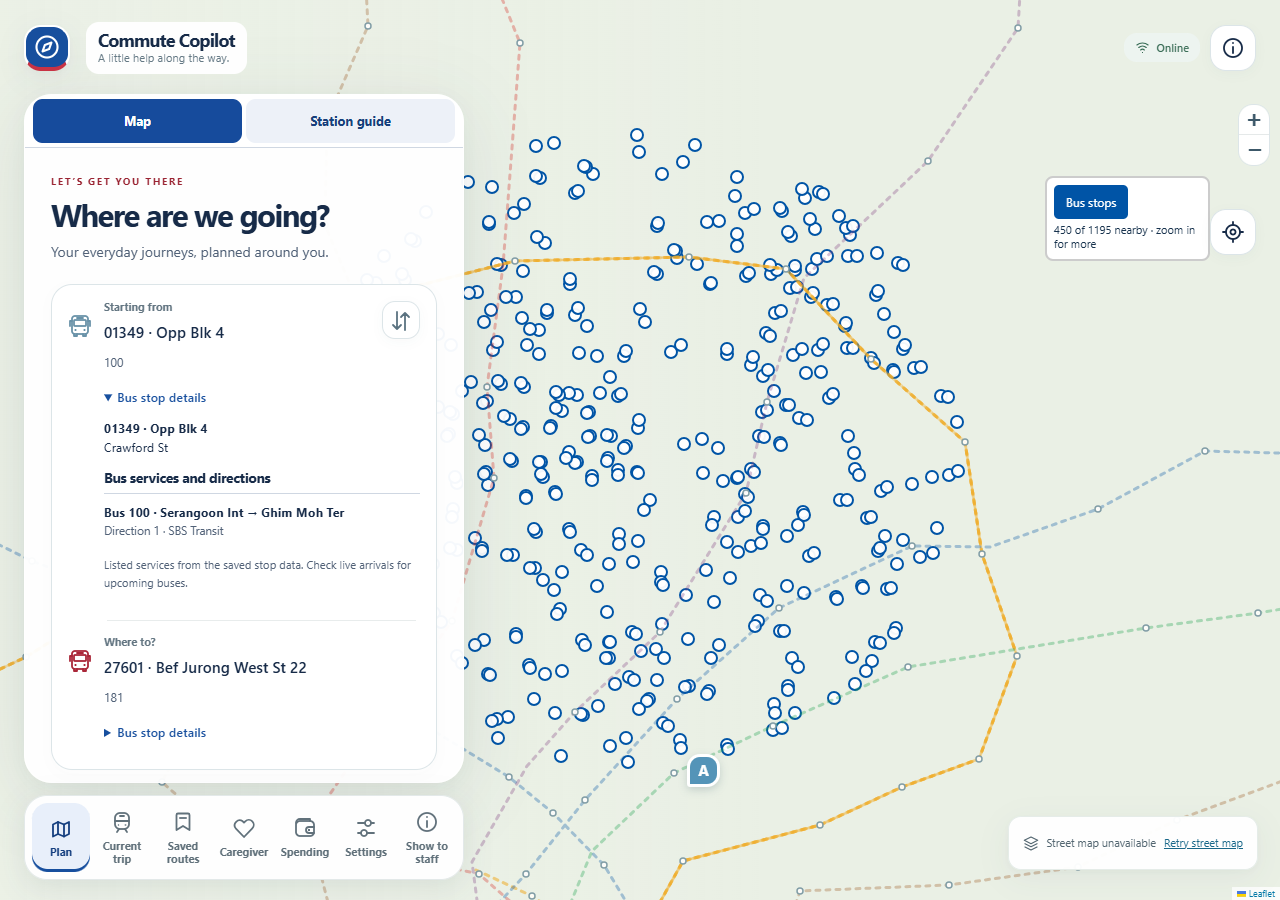
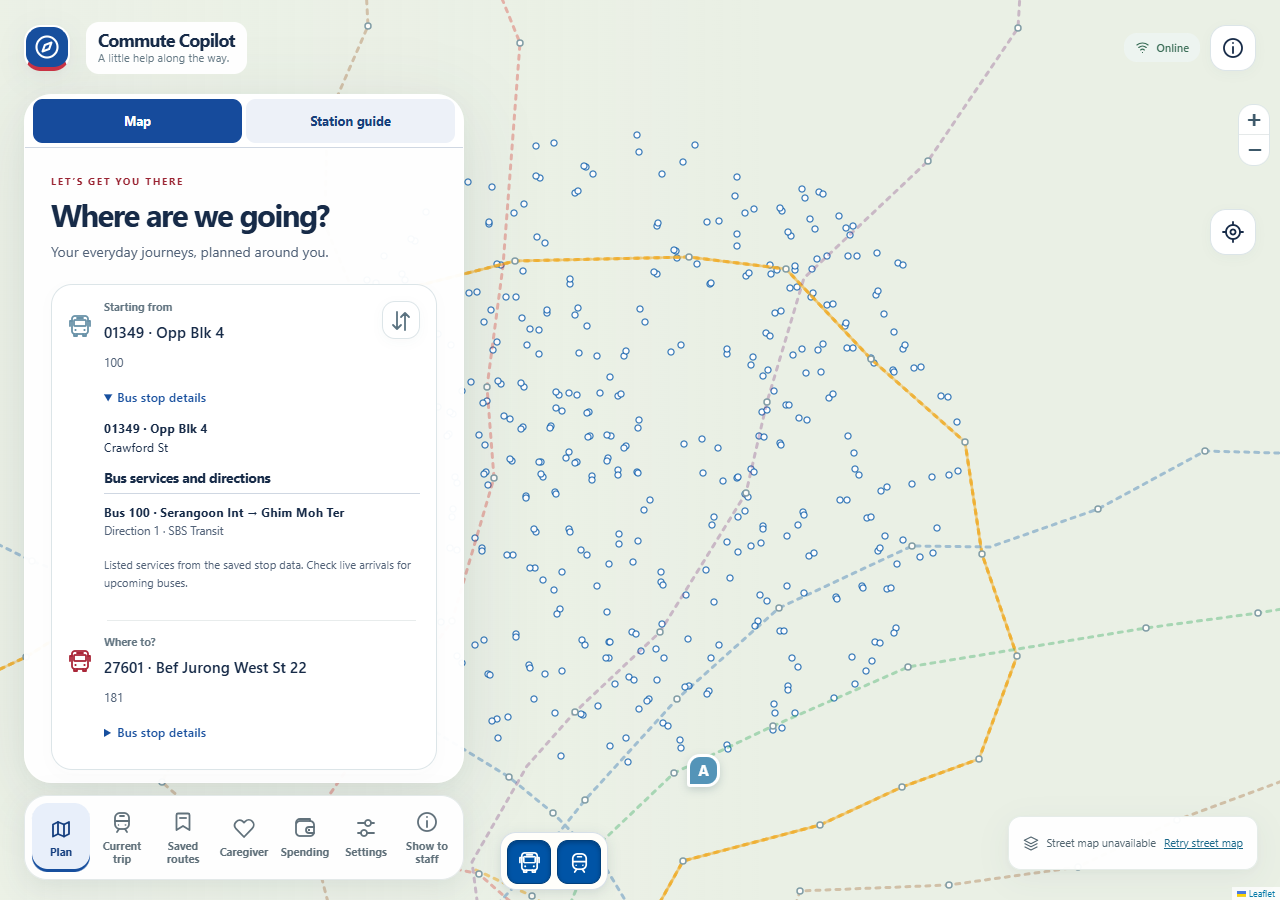
Group bus and train map toggles with compact stop markers

diff --git a/src/commute-ui.js b/src/commute-ui.js
@@ -24,6 +24,7 @@ import {mountStaffCard} from './staff-card.js';
 import {mountMapStationPages,indoorNoticeHTML} from './station-guide.js';
 import {mountJourneySheet} from './journey-sheet.js';
 import {mountBusStopMap} from './bus-stop-map.js';
+import {mountMapLayerControls} from './map-layer-controls.js';
 
 const esc=v=>String(v??'').replace(/[&<>"']/g,c=>({'&':'&amp;','<':'&lt;','>':'&gt;','"':'&quot;',"'":'&#39;'}[c]));
 const $=id=>document.getElementById(id);
@@ -162,7 +163,22 @@ function drawMap(){if(!mapLayers)return;mapLayers.clearLayers();const active=com
   $('retry-street-map')?.addEventListener('click',()=>streetMap?.retry());if(points.length&&drawMap.last!==r?.id){drawMap.last=r?.id;fitMap();}}
 function fitMap(){if(drawMap.points?.length){const desktop=innerWidth>=960;map.fitBounds(drawMap.points,{paddingTopLeft:desktop?[500,95]:[32,90],paddingBottomRight:desktop?[60,65]:[32,50],maxZoom:14,animate:!reducedMotion()});}else map?.setView([1.335,103.86],12,{animate:!reducedMotion()});}
 $('recenter-map').onclick=fitMap;
-async function initMap(){try{map=L.map('commute-map',{zoomControl:false,scrollWheelZoom:false}).setView([1.335,103.86],12);streetMap=addStreetMap(map,{onStatus:status=>{mapFailed=['unavailable','offline'].includes(status.status);mapStatus=mapFailed?'Street map unavailable':status.status==='loading'?'Loading street map':'';drawMap();}});L.control.zoom({position:'topright'}).addTo(map);drawNetworkOverview(map,rail);mountBusStopMap(map,bus.stops,{onChoose:(role,code)=>{catalog=currentCatalog();const point=catalog.find(p=>p.id===`bus:${code}`);if(point){showView('plan');choose(role,point);}}});mapLayers=L.layerGroup().addTo(map);drawMap();}catch{$('map-caption').hidden=false;$('map-caption').textContent='Map unavailable. Text routes and saved guidance remain usable.';}}
+async function initMap(){try{
+  map=L.map('commute-map',{zoomControl:false,scrollWheelZoom:false}).setView([1.335,103.86],12);
+  streetMap=addStreetMap(map,{onStatus:status=>{mapFailed=['unavailable','offline'].includes(status.status);mapStatus=mapFailed?'Street map unavailable':status.status==='loading'?'Loading street map':'';drawMap();}});
+  L.control.zoom({position:'topright'}).addTo(map);
+  const trainLayer=drawNetworkOverview(map,rail);
+  let busLayer;
+  const layerControls=mountMapLayerControls(map,{
+    onBusToggle:visible=>busLayer.setVisible(visible),
+    onTrainToggle:visible=>visible?trainLayer.addTo(map):map.removeLayer(trainLayer)
+  });
+  busLayer=mountBusStopMap(map,bus.stops,{
+    onStatus:layerControls.setBusStatus,
+    onChoose:(role,code)=>{catalog=currentCatalog();const point=catalog.find(p=>p.id===`bus:${code}`);if(point){showView('plan');choose(role,point);}}
+  });
+  mapLayers=L.layerGroup().addTo(map);drawMap();
+}catch{$('map-caption').hidden=false;$('map-caption').textContent='Map unavailable. Text routes and saved guidance remain usable.';}}
 function connection(){$('network-status').innerHTML=`${icon(navigator.onLine?'online':'offline',16)} ${navigator.onLine?'Online':'Offline'}`;updateCurrent(companion?.getActive());}window.addEventListener('online',connection);window.addEventListener('offline',connection);
 async function boot(){try{[rail,bus,walking,build]=await Promise.all(['rail-network','bus-network','walking-links','application-build'].map(async n=>{const r=await fetch(`/data/${n}.json`);if(!r.ok)throw Error('Routing data could not be loaded. Reconnect to prepare this device.');return r.json();}));router=createMultimodalRouter(rail,bus,walking);plannerClient=createPlannerClient([rail,bus,walking]);for(const s of router.network.stations)names.set(s.id,s.name);for(const s of router.network.stops)names.set(s.id,`${s.name} (${s.id})`);catalog=currentCatalog();$('coverage-copy').innerHTML=`<p>Rail timetable: ${rail.coverage.startDate}–${rail.coverage.endDate}. All times are in Asia/Singapore. Dates outside coverage stay unavailable.</p><p>All ${bus.stops.length.toLocaleString('en-SG')} source bus stops are searchable. The directory includes ${bus.patterns.length} route directions across ${bus.availability.registryServiceNumberCount} service numbers. Zoom in on the map to select a bus stop.</p><p>${bus.availability.routablePatternCount} bus patterns across ${bus.availability.routableServiceNumberCount} services have at least one supported service day, ${bus.coverage.validFrom}–${bus.coverage.validThrough}. Per-stop weekday, Saturday and Sunday service windows apply where supported. Holiday routing needs a separately verified operator calendar; services without usable frequency data remain listed without journey estimates. Bus timings are bounded estimates, not live vehicle arrivals.</p><aside class="wip-banner"><h3>Work in progress — station connections</h3><p>Same-terminal bus changes use an estimated five-minute walking allowance; confirm the boarding bay. Bus/rail walking links require reviewed exterior connections. Indoor accessibility, door-to-door paths, crowding, shelter and real toilet paths remain unverified.</p></aside>`;
   initMap();companion=mountCompanion({host:$('companion-host'),showHeader:false,showDock:false,sectionHosts:{review:$('review-companion'),saved:$('saved-companion'),sharing:$('caregiver-companion'),spending:$('spending-companion')},getMap:()=>map,getSelected:()=>selected&&input?(selected.plan?{plan:selected.plan}:{route:selected,input,routingContext:acceptJourney(selected,input,build.applicationSha256)}):null,getPlaces:()=>catalog.filter(p=>p.kind!=='saved'),name,getFareOptions:()=>({busNetwork:bus}),onSelectPlan:p=>{preferences=preferencesStore.update(p.preferences);renderPreferences();catalog=currentCatalog();for(const point of [p.origin,p.destination])if(!catalog.some(existing=>existing.id===point.id)&&Number.isFinite(point.lat)&&Number.isFinite(point.lng)){externalPoints=[{...point,routingId:null,kind:'address',detail:'Saved public endpoint · online routing required'},...externalPoints.filter(existing=>existing.id!==point.id)].slice(0,12);}catalog=currentCatalog();for(const role of ['origin','destination']){resolved[role]=p[role].id;$(role).value=p[role].label;}restoreTiming(p);invalidate();showView('plan');},onEndpoint:(role,p)=>{catalog=currentCatalog();choose(role,p);showView('plan');}});

diff --git a/src/bus-stop-map.js b/src/bus-stop-map.js
@@ -6,17 +6,9 @@ export function visibleBusStops(stops,bounds,center,limit=450) {
   return {stops:candidates.slice(0,limit),total:candidates.length};
 }
 
-export function mountBusStopMap(map,stops,{onChoose,leaflet=globalThis.L}={}) {
-  const layer=leaflet.layerGroup().addTo(map),renderer=leaflet.canvas({padding:.2});
+export function mountBusStopMap(map,stops,{onChoose,onStatus=()=>{},leaflet=globalThis.L}={}) {
+  const layer=leaflet.layerGroup().addTo(map),renderer=leaflet.canvas({padding:.2,tolerance:4});
   let enabled=true,disposed=false;
-  const control=leaflet.control({position:'topright'});
-  const container=document.createElement('div');container.className='leaflet-bar bus-stop-map-control';
-  container.style.cssText='background:white;padding:7px;border-radius:8px;max-width:165px;margin-right:70px;color:#17324d';
-  const toggle=document.createElement('button');toggle.type='button';toggle.textContent='Bus stops';toggle.setAttribute('aria-pressed','true');
-  toggle.style.cssText='background:#0054a6;color:white;border:0;border-radius:5px;padding:8px 12px;font:inherit;cursor:pointer';
-  const status=document.createElement('div');status.setAttribute('role','status');status.style.cssText='font-size:11px;margin-top:4px;line-height:1.3';
-  container.append(toggle,status);leaflet.DomEvent.disableClickPropagation(container);leaflet.DomEvent.disableScrollPropagation(container);
-  control.onAdd=()=>container;control.addTo(map);
   function popup(stop) {
     const box=document.createElement('div'),title=document.createElement('strong'),road=document.createElement('p');
     title.textContent=`${stop.id} · ${stop.name}`;road.textContent=stop.roadName??'';box.append(title,road);
@@ -28,17 +20,19 @@ export function mountBusStopMap(map,stops,{onChoose,leaflet=globalThis.L}={}) {
   }
   function update() {
     if(disposed)return;layer.clearLayers();
-    if(!enabled){status.textContent='Hidden';return;}
-    if(map.getZoom()<14){status.textContent='Zoom in to see bus stops';return;}
+    if(!enabled){onStatus('Bus stops hidden');return;}
+    if(map.getZoom()<14){onStatus('Zoom in to see bus stops');return;}
     const b=map.getBounds(),visible=visibleBusStops(stops,{south:b.getSouth(),north:b.getNorth(),west:b.getWest(),east:b.getEast()},map.getCenter());
     for(const stop of visible.stops){
       const label=document.createElement('span');label.textContent=`${stop.id} · ${stop.name}`;
-      leaflet.circleMarker([stop.lat,stop.lon],{renderer,radius:6,color:'#0054a6',weight:2,fillColor:'#fff',fillOpacity:.95})
+      leaflet.circleMarker([stop.lat,stop.lon],{renderer,radius:3,color:'#0054a6',weight:1,fillColor:'#fff',fillOpacity:.95})
         .bindTooltip(label,{direction:'top'}).bindPopup(()=>popup(stop)).addTo(layer);
     }
-    status.textContent=visible.total>visible.stops.length?`${visible.stops.length} of ${visible.total} nearby · zoom in for more`:`${visible.total} stops in this area`;
+    onStatus(visible.total>visible.stops.length?`${visible.stops.length} of ${visible.total} nearby · zoom in for more`:`${visible.total} stops in this area`);
   }
-  toggle.addEventListener('click',()=>{enabled=!enabled;toggle.setAttribute('aria-pressed',String(enabled));update();});
   map.on('moveend zoomend',update);update();
-  return {remove(){disposed=true;map.off('moveend zoomend',update);map.removeLayer(layer);map.removeControl(control);}};
+  return {
+    setVisible(visible){if(disposed)return;enabled=Boolean(visible);update();},
+    remove(){disposed=true;map.off('moveend zoomend',update);map.removeLayer(layer);map.removeLayer(renderer);}
+  };
 }

diff --git a/src/r5.css b/src/r5.css
@@ -34,7 +34,20 @@
   .commute-app .sheet-handle::before{content:'';width:35px;height:4px;border-radius:4px;background:#8b9bb0;flex-shrink:0}
   .commute-app .sheet-handle:focus-visible{outline:3px solid var(--accent);outline-offset:-4px}
   .commute-app .app-shell[data-journey-sheet]{--mobile-map-height:var(--journey-sheet-top)!important}
-  .commute-app .app-shell:is([data-journey-sheet=expanded],[data-journey-sheet=dragging]) :is(.map-caption,.map-recenter,.leaflet-control-zoom){visibility:hidden}
+  .commute-app .app-shell:is([data-journey-sheet=expanded],[data-journey-sheet=dragging]) :is(.map-caption,.map-recenter,.leaflet-control-zoom,.map-layer-control){visibility:hidden}
   .commute-app .app-shell:is([data-journey-sheet=compact],[data-journey-sheet=dragging]) .trip-peek{display:none}
   .commute-app .app-shell[data-journey-sheet=dragging] .app-panel{user-select:none}
+}
+
+.commute-app .map-layer-control{display:flex;gap:6px;padding:6px;background:#fffefa;border:1px solid #d7e0e8;border-radius:16px;box-shadow:0 3px 12px #17324d20;margin-bottom:20px}
+.commute-app .map-layer-toggle{display:grid;place-items:center;width:44px;height:44px;min-height:44px;padding:0;border:1px solid #0054a6;border-radius:11px;background:transparent;color:#0054a6;box-shadow:none;cursor:pointer}
+.commute-app .map-layer-toggle[aria-pressed=true]{background:#0054a6;color:#fff;border-color:#003f7c;box-shadow:inset 0 2px 4px #001f4660;transform:translateY(1px)}
+.commute-app .map-layer-toggle:focus-visible{outline:3px solid #d89400;outline-offset:3px}
+.commute-app .map-layer-status{position:absolute;width:1px;height:1px;padding:0;overflow:hidden;clip-path:inset(50%);white-space:nowrap}
+@media(min-width:681px) and (max-width:899px){
+  .commute-app .app-map .leaflet-bottom.leaflet-left{left:438px;right:auto}
+}
+@media(max-width:680px){
+  .commute-app .app-map .leaflet-bottom.leaflet-left{left:5px;right:auto}
+  .commute-app .map-layer-control{margin-bottom:12px}
 }

diff --git a/src/map-layer-controls.js b/src/map-layer-controls.js
@@ -1,0 +1,40 @@
+import {icon} from './icons.js';
+
+export function mountMapLayerControls(map,{onBusToggle,onTrainToggle,leaflet=globalThis.L}={}) {
+  const control=leaflet.control({position:'bottomleft'});
+  const container=document.createElement('div');
+  container.className='map-layer-control';
+  container.setAttribute('role','group');
+  container.setAttribute('aria-label','Map layers');
+  const status=document.createElement('span');
+  status.className='map-layer-status';
+  status.setAttribute('role','status');
+  status.id='bus-map-layer-status';
+  function addToggle(name,label,onToggle) {
+    const button=document.createElement('button');
+    button.type='button';button.className='map-layer-toggle';
+    button.innerHTML=icon(name,23);
+    button.setAttribute('aria-label',label);
+    button.setAttribute('aria-pressed','true');
+    button.title=`Hide ${label.toLowerCase()}`;
+    button.addEventListener('click',()=>{
+      const visible=button.getAttribute('aria-pressed')!=='true';
+      onToggle?.(visible);
+      button.setAttribute('aria-pressed',String(visible));
+      button.title=`${visible?'Hide':'Show'} ${label.toLowerCase()}`;
+    });
+    container.append(button);
+    return button;
+  }
+  const bus=addToggle('bus','Bus stops',onBusToggle);
+  bus.setAttribute('aria-describedby',status.id);
+  addToggle('train','Train network',onTrainToggle);
+  container.append(status);
+  leaflet.DomEvent.disableClickPropagation(container);
+  leaflet.DomEvent.disableScrollPropagation(container);
+  control.onAdd=()=>container;control.addTo(map);
+  return {
+    setBusStatus(message){if(status.textContent!==message)status.textContent=message;},
+    remove(){map.removeControl(control);}
+  };
+}
